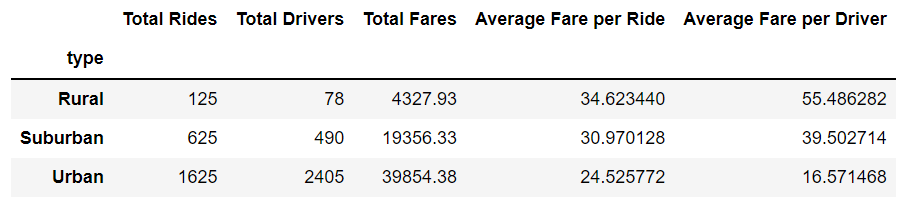
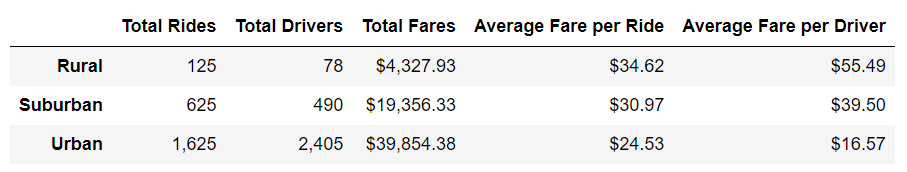
Final Commit

diff --git a/README.md b/README.md
@@ -14,7 +14,7 @@ Software: Conda 4.10.3, Python 3.7.6, Jupyter Notebook 6.3.0, Pandas, and Matplo
 
 # Results
 - Ride-Sharing Summary DataFrame by City Type: Using the Pandas groupby() function with the count() and sum() methods on PyBer DataFrame columns, get the total number of rides, total number of drivers, and the total fares for each city type. Then, calculate the average fare per ride and average fare per driver for each city type. Finally, add this data to a new DataFrame, then format the columns.
-![PyBer_Summary_DataFrame](https://github.com/KimberlyCrawford/PyBer_Analysis/blob/main/Resources/PyBer_Summary_DataFrame)
+![PyBer_summary_dataframe.png](https://github.com/KimberlyCrawford/PyBer_Analysis/blob/main/Resources/PyBer_summary_dataframe.png)
 
 - Multiple-line Graph of Total Weekly Fares for Each City Type: Using your Pandas skills and two new functions, pivot() andresample(), create a multiple-line graph that shows the total fares for each week by city type.
 ![PyBer_fare_summary.png](https://github.com/KimberlyCrawford/PyBer_Analysis/blob/main/Resources/PyBer_fare_summary.png)
